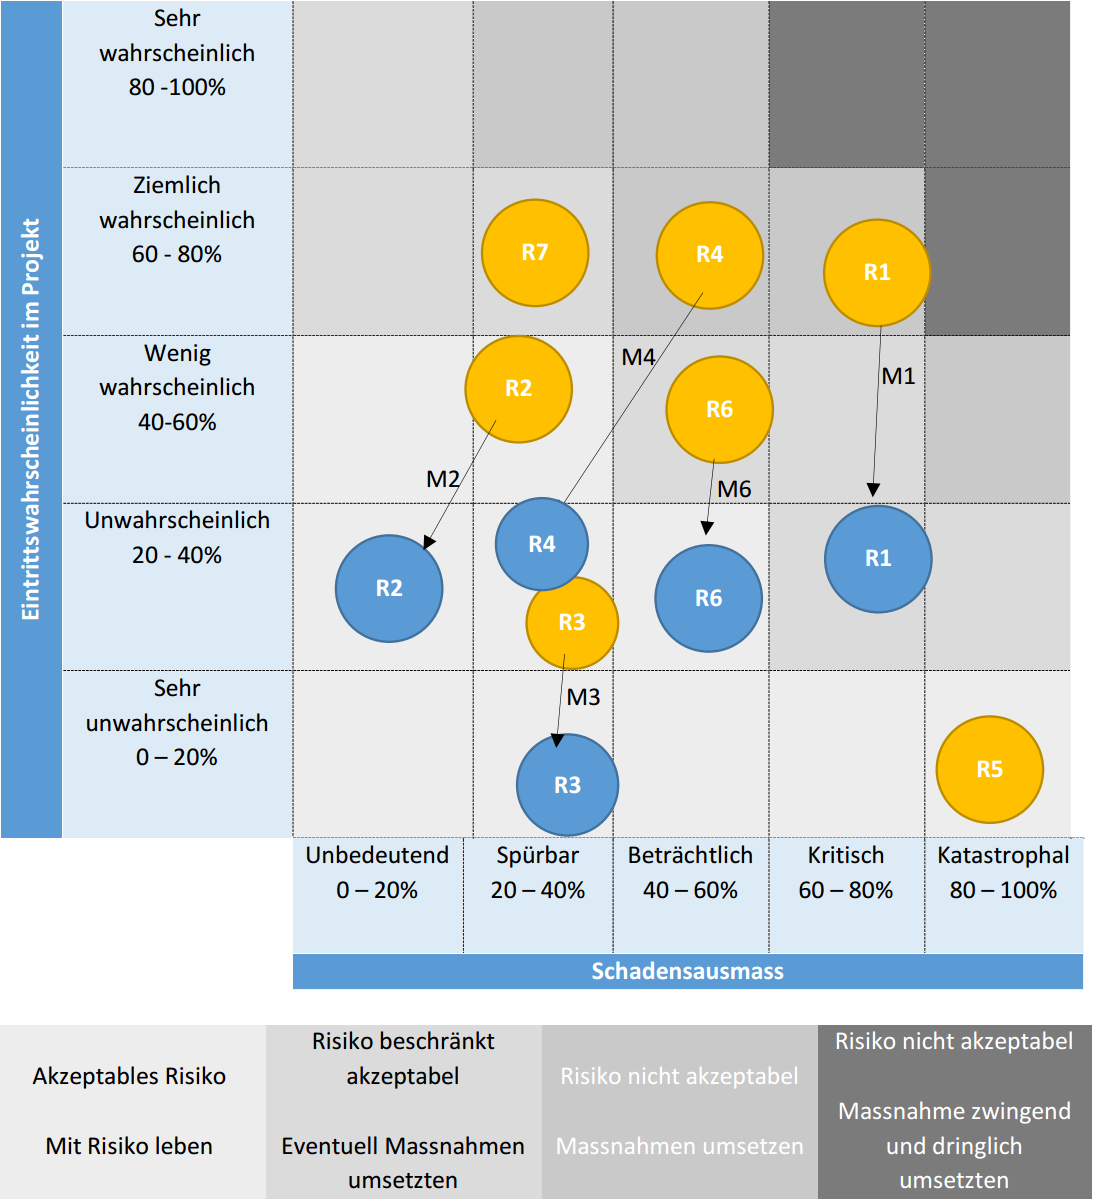
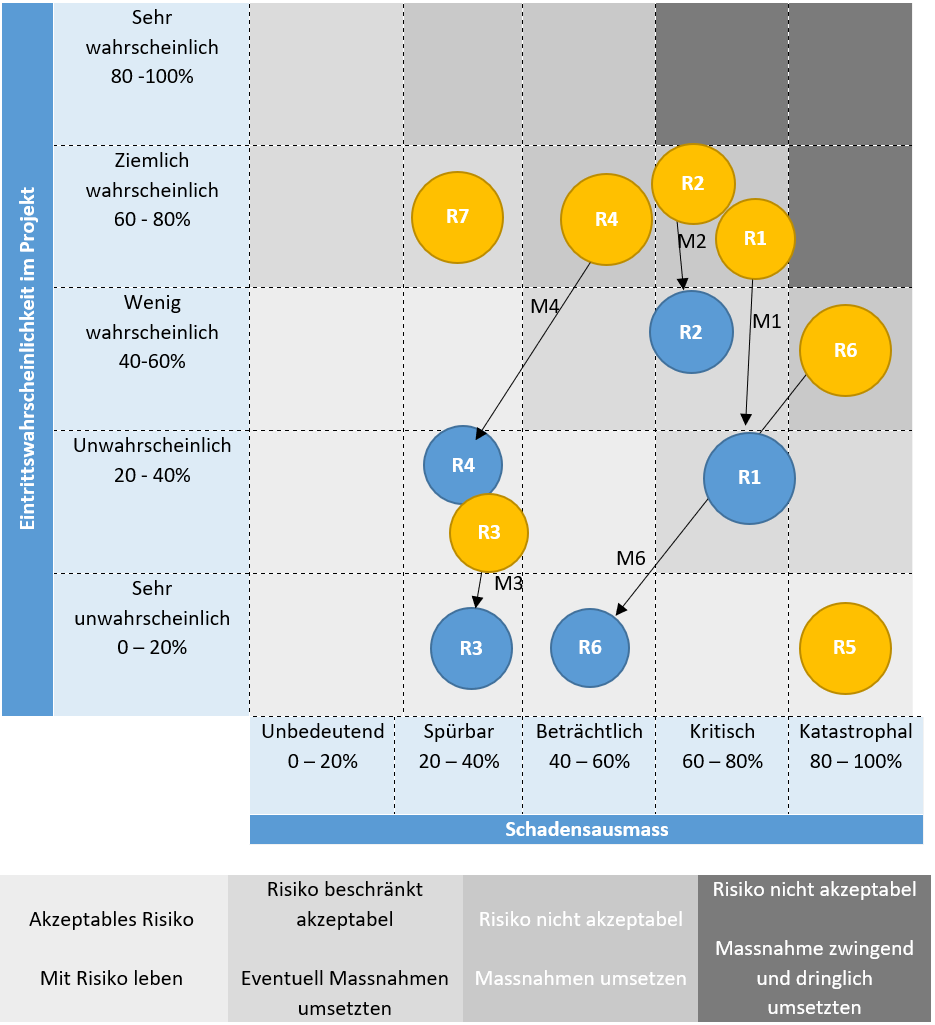
changed risikomatrix.png and wording of risike etc.

diff --git a/01_Projektdokumente/01_Projektdokumentation/OEG‐LWI‐SSA_20200428_0.1_Draft_4.tex b/01_Projektdokumente/01_Projektdokumentation/OEG‐LWI‐SSA_20200428_0.1_Draft_4.tex
@@ -22,7 +22,7 @@
 }
 
 \geometry{top=0.75cm, bottom=0.8cm, right=2.5cm, left=2.5cm, headheight=35pt, includeheadfoot, portrait}
-%\setmainfont{Calibri}
+\setmainfont{Calibri}
 
 %Path relative to the .tex file containing the \includegraphics command
 \graphicspath{{01_Grafiken/}}
@@ -68,6 +68,7 @@
 		0.4 & 07.05.2020 & LWI & Einfügen der Rollenbeschreibung + kleine Design Änderungen \\
 		0.5 & 08.05.2020 & LWI & Einfügen der Ressourcenplanung \\
 		0.6 & 11.05.2020 & LWI & Änderung R3/M3 in der Risikoanalyse \\
+		0.7 & 12.05.2020 & LWI & Änderung in der Risikoanalyse + Grafik \\
 	\end{tabularx}
 	
 	\renewcommand{\cftsecleader}{\cftdotfill{\cftdotsep}}
@@ -202,13 +203,13 @@
 		\begin{tabular}{p{0.02\textwidth}|p{0.45\textwidth}|p{0.45\textwidth}}
 			\textbf{Id} & \textbf{Risiko Beschreibung} & \textbf{Möglicher Schade} \\ \hline
 			
-			R1 & Kosteneinschätzungen werden überschritten & Projekt wird teurer als ursprünglich geplant. Projektziele können nicht eingehalten werden. \\ \hline
+			R1 & Kosteneinschätzungen werden überschritten & Projekt wird teurer als ursprünglich geplant. Projektbudget kann nicht eingehalten werden. \\ \hline
 			
 			R2 & Mitarbeiterausfall & Projektziele können nicht eingehalten werden. Die anderen Mitarbeiter müssen vermehrt Überzeit machen. \\ \hline
 			
 			R3 & Hardwareausfall & Nach Ausfall muss ausgetauscht / repariert werden was zu Verschiebungen im Zeitplan führen kann \\ \hline
 			
-			R4 & Projektplan wurde zu sportlich geschätzt. & Verlust von Hardware, Code, Räumlichkeiten. Ausfall von Mitarbeitern. Es kann vorkommen das der Projektplan nicht eingehalten werden kann oder es zur nicht Durchführung des Projektes kommen. \\ \hline
+			R4 & Projektplan wurde zu sportlich geschätzt. & Meilensteine/Projektziele können nicht eignehalten werden, was zu Verschiebungen im Zeitplan führen kann. \\ \hline
 			
 			R5 & Naturkatastrophe & Verlust von Hardware, Code, Räumlichkeiten. Ausfall von Mitarbeitern. Es kann vorkommen das der Projektplan nicht eingehalten werden kann oder es zur nicht Durchführung des Projektes kommen. \\ \hline
 			
@@ -234,11 +235,11 @@
 			
 			M2 & Einfordern eines Ferienabwesenheitsantrages sowie die Planung aller Ressourcen. Zudem sollte ein regelmässiger Know-How Transfer stattfinden. & Oliver Egloff, Leonardo Wiedemeier & & Bei Ferienabwesenheit \\ \hline
 			
-			M3 & Hardware angemessen behandel und mit dem Kunden (ABBTS) im Falle eines Ausfalls sofort reagieren & & & Während des ganzes Projektes \\ \hline
+			M3 & Hardware angemessen behandel und mit dem Kunden (ABBTS) im Falle eines Ausfalls sofort reagieren & Ganzes Team & & Während des ganzes Projektes \\ \hline
 			
-			M4 & Einplanen von zeitlichen Reserven & Samuel Salomon, Oliver Egloff, Leonardo Wiedemeier & & Zu Beginn der Planung und am Anfang einer neuen Phase \\ \hline
+			M4 & Einplanen von zeitlichen Reserven & Ganzes Team & 1x pro Woche & Zu Beginn der Planung und am Anfang einer neuen Phase \\ \hline
 			
-			M6 & Regelmässige Backups der Lösung und klare Definierungen wie gearbeitet wird. & Samuel Salomon, Leonardo Wiedemeier & 1x pro Woche & 1x pro Woche \\ \hline
+			M6 & Regelmässige Backups der Lösung und klare Definierungen wie gearbeitet wird. & Samuel Salomon, Leonardo Wiedemeier & 1x pro Woche & Ab Begin Projekt \\ \hline
 			
 			M7 & Über die Situation mit COVID-19 auf dem Laufenden bleiben und persönliche wie auch Geschäftliche Entscheidungen Frühzeitig angehen. & Alle am Projekt beteiligten Personen & Täglich & Täglich \\
 		\end{tabular}
